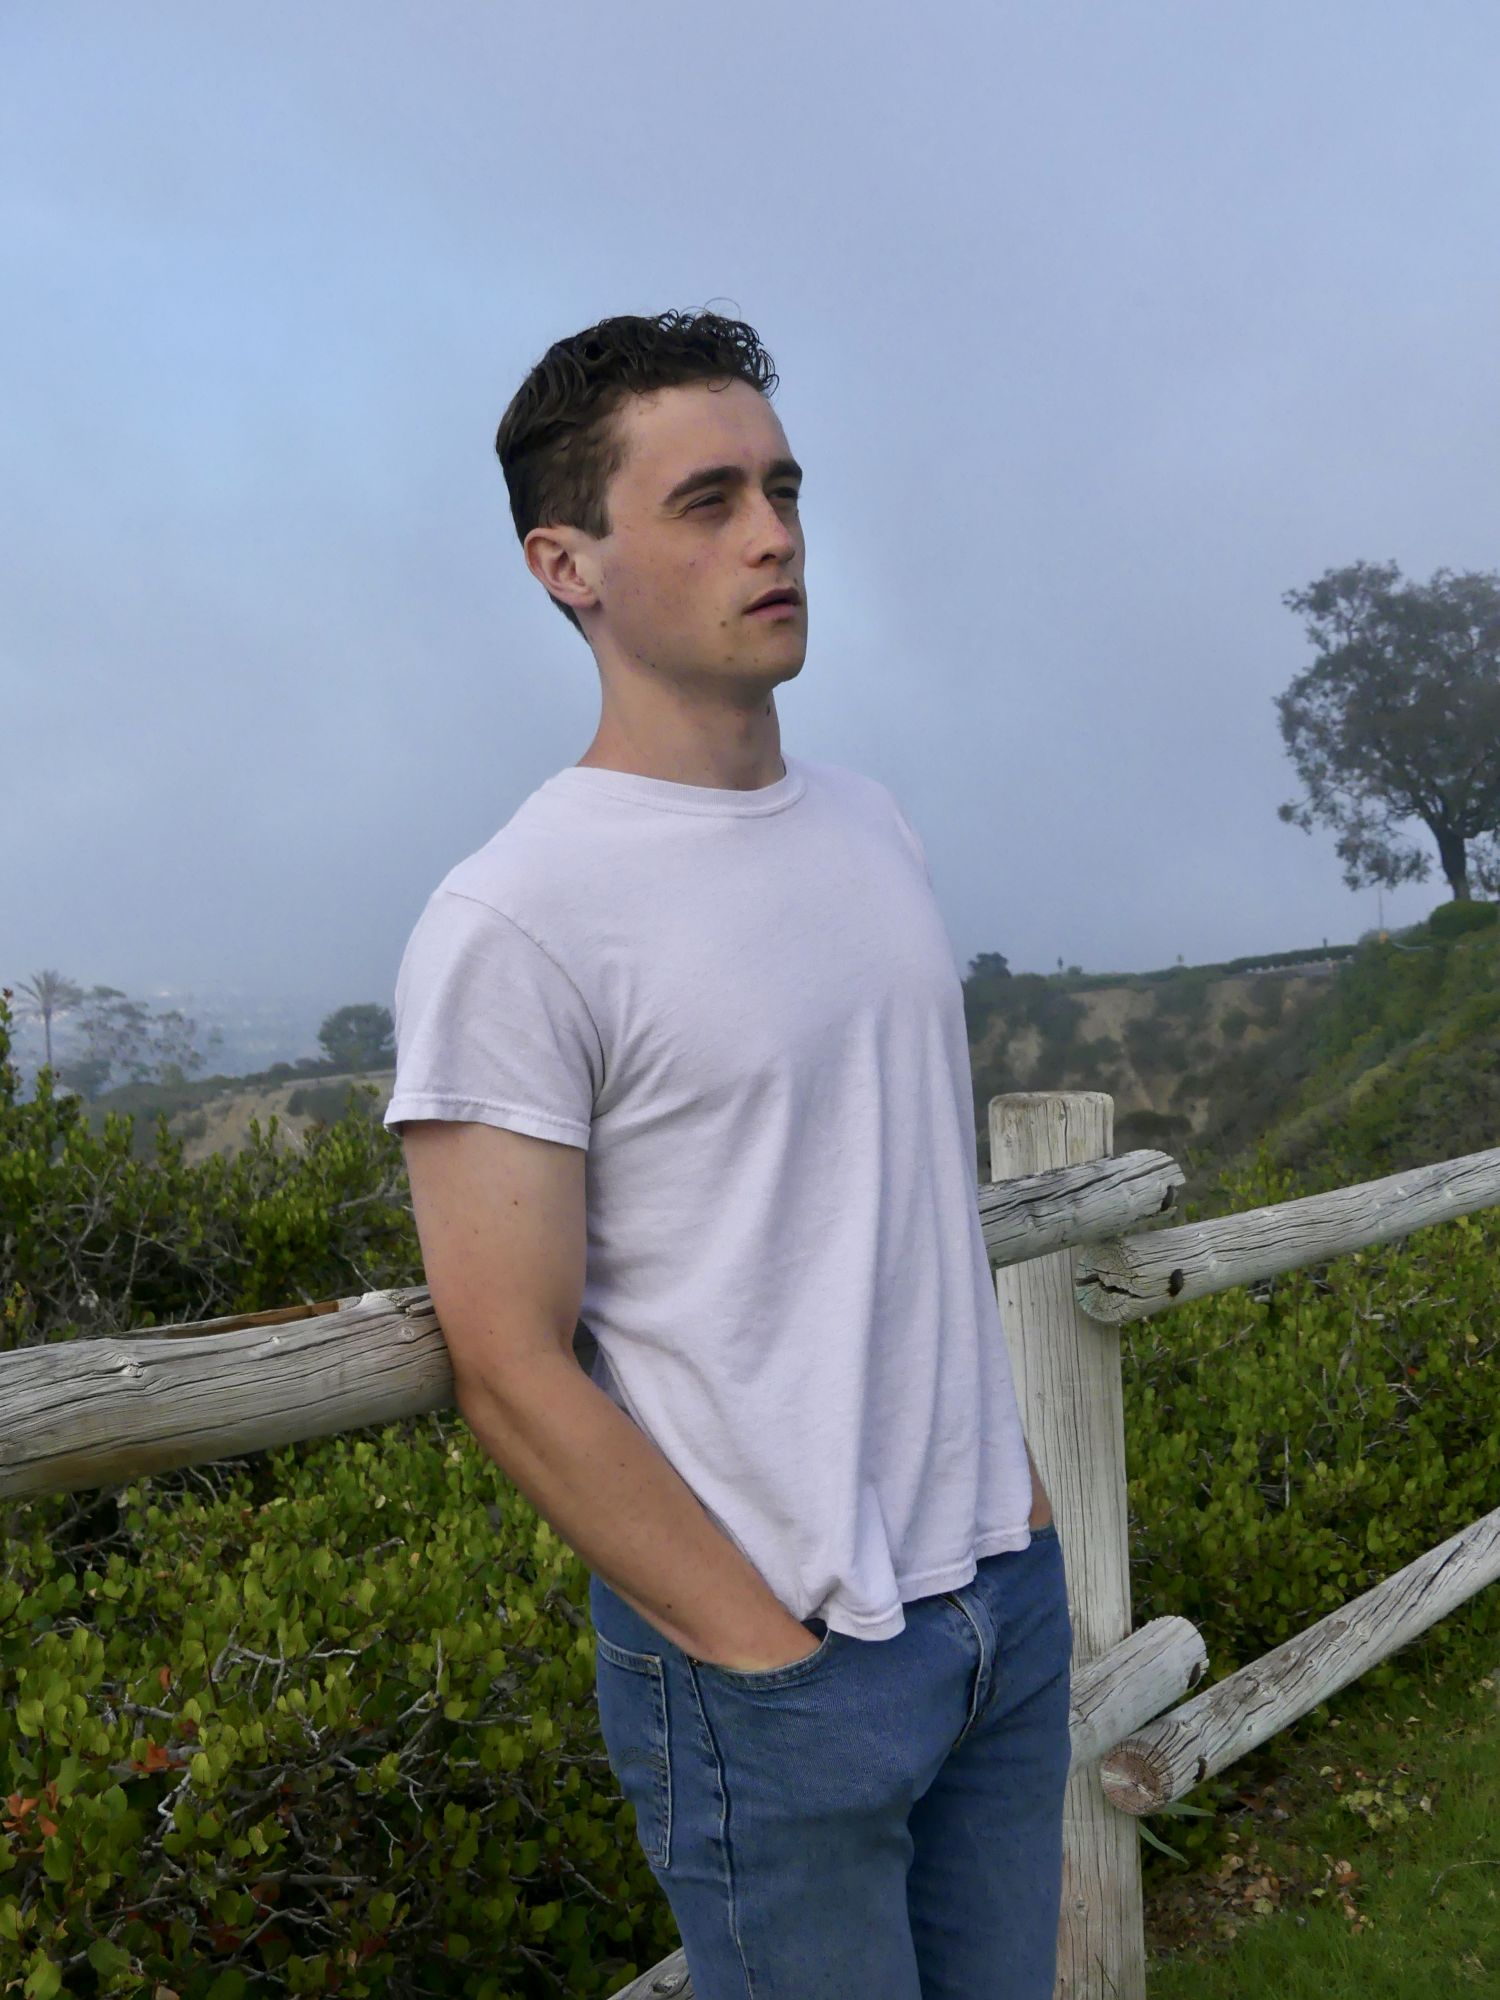
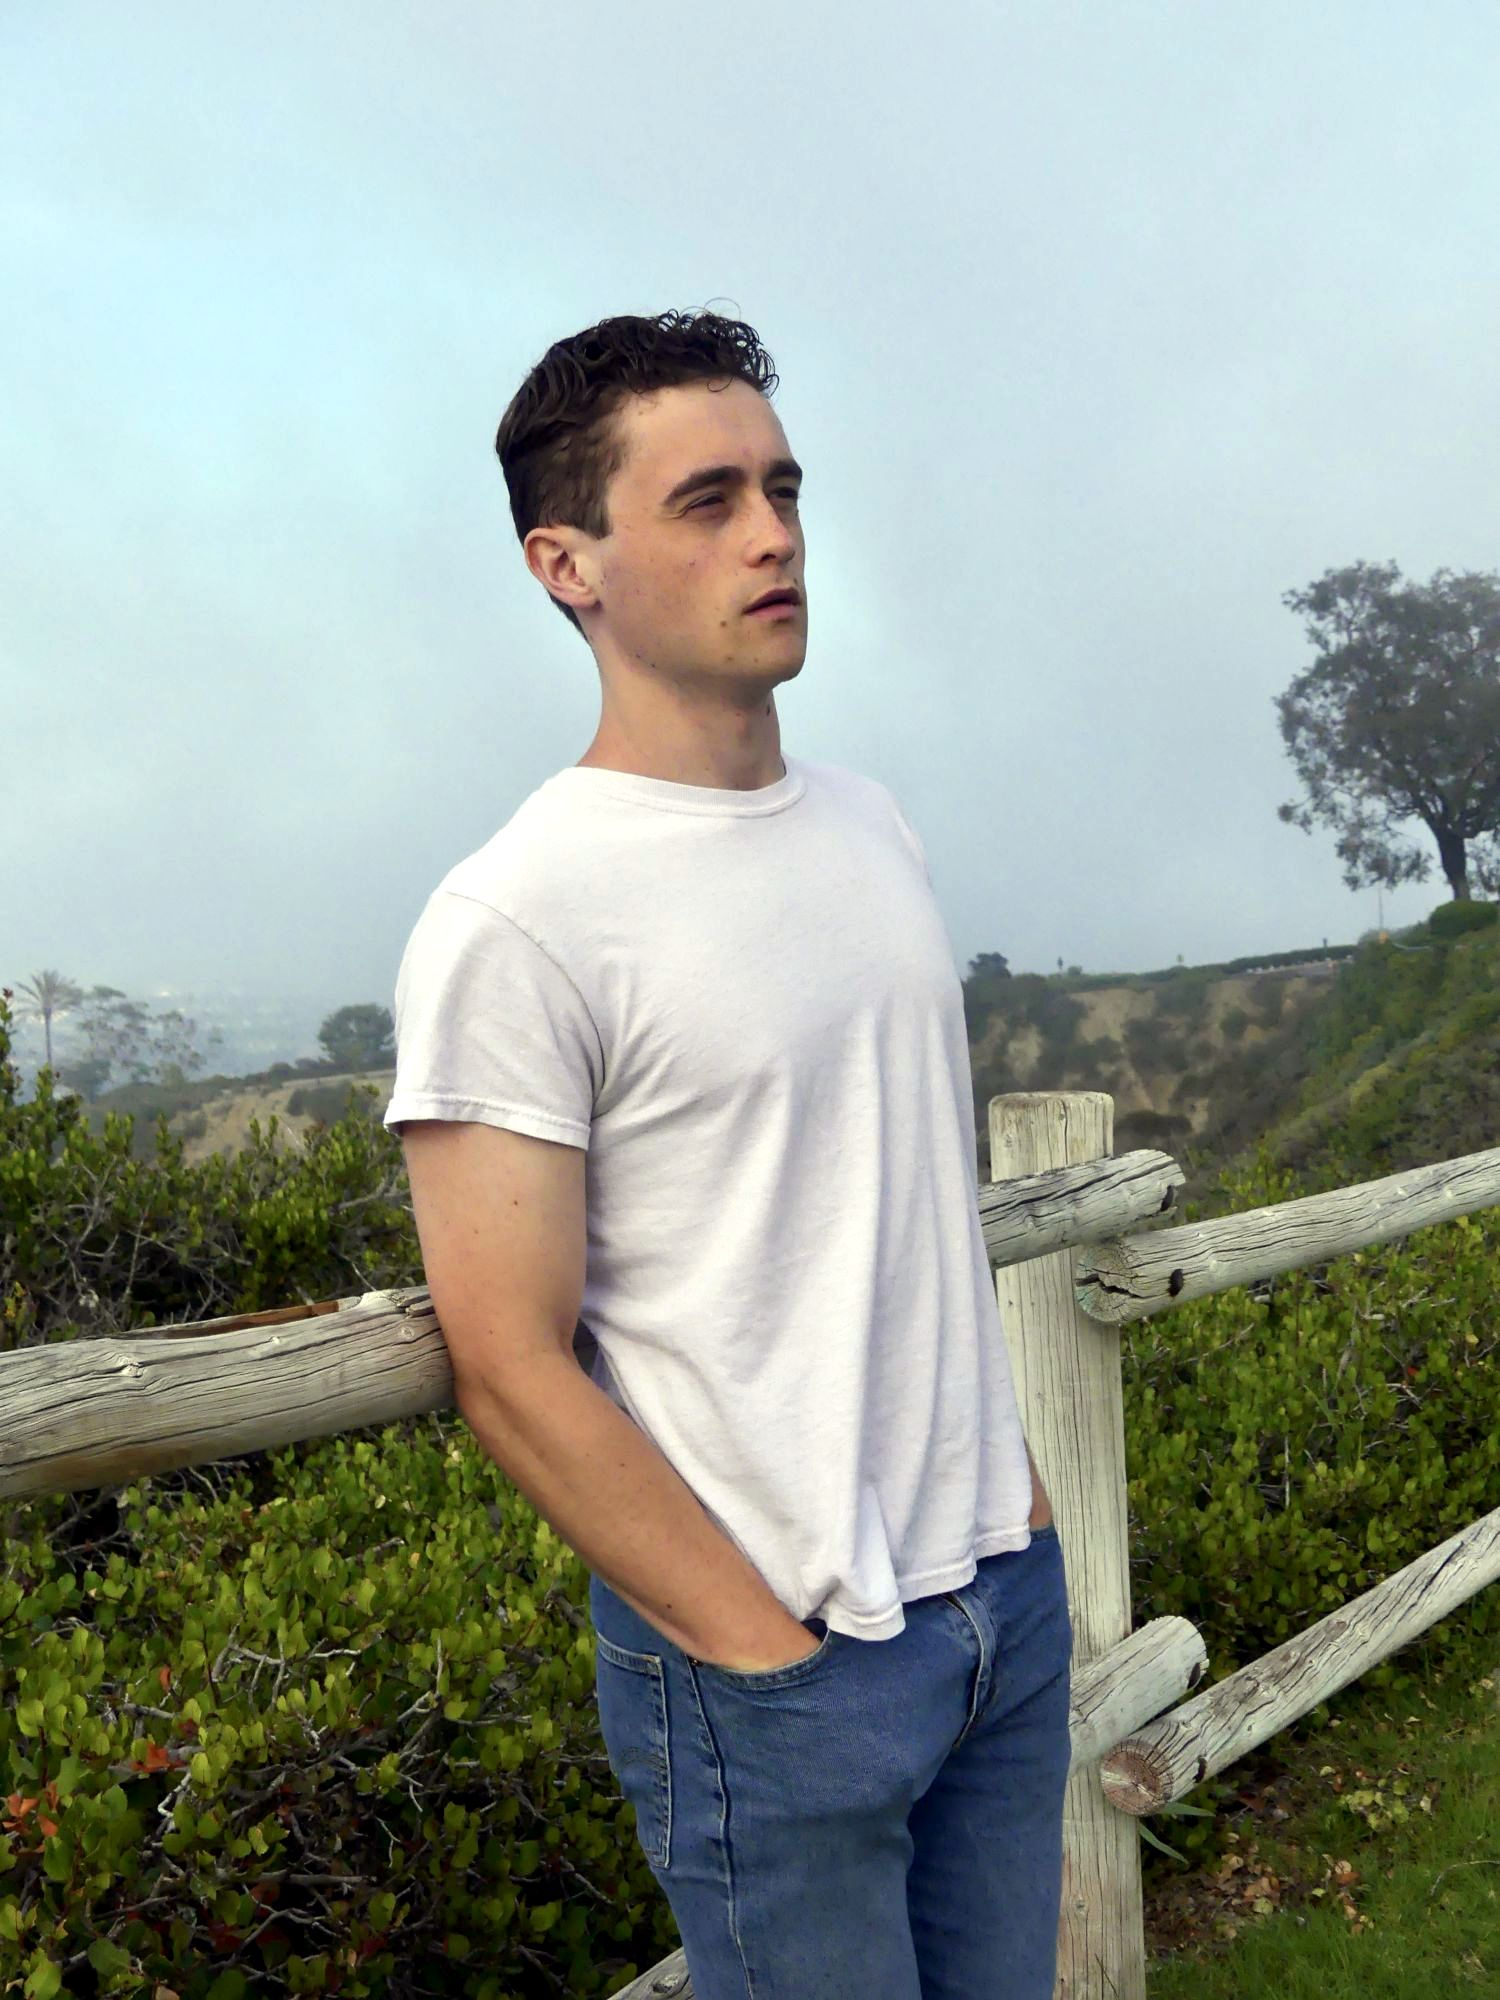
modified:   photos.html 	renamed:    public/images/backgrounds/sources/Background(002).jpeg -> public/images/backgrounds/sources/Background(003).jpeg 	modified:   public/images/photos/DaneHobrechtPhoto(001).jpeg 	new file:   public/images/photos/DaneHobrechtPhoto(002).jpeg 	modified:   public/images

diff --git a/style.css b/style.css
@@ -116,7 +116,7 @@ img { image-rendering: -webkit-optimize-contrast; }
 .section img {
 	float: left;
 	width: 100%;
-	max-width: 368px;
+	max-width: 384px;
 	margin: 0px 12px 8px 0px;
 }
 
@@ -173,7 +173,7 @@ img { image-rendering: -webkit-optimize-contrast; }
 
 .photos img {
 	width: 92vw;
-	max-width: 368px;
+	max-width: 384px;
 	padding: 0px 8px 16px 8px;
 	transition: transform 0.5s ease;
 	-webkit-transform: transform 0.5s ease;
@@ -207,7 +207,7 @@ img { image-rendering: -webkit-optimize-contrast; }
 	color: #c0c0c0;
 	font-size: 0.9em;
 	transition: color 0.2s;
-	padding: 0px 4px 0px 4px;
+	padding: 0px 2px 0px 2px;
 	-webkit-transform: color 0.2s;
 	font-family: "LiberationSans-Bold";
 }

diff --git a/photos.html b/photos.html
@@ -28,6 +28,9 @@
 			<a href="public/images/photos/sources/DaneHobrechtPhoto(001).jpeg">
 				<img src="public/images/photos/DaneHobrechtPhoto(001).jpeg" alt="Environmental photo of Dane Hobrecht taken by Ethan Ghere in 2022."/>
 			</a>
+			<a href="public/images/photos/sources/DaneHobrechtPhoto(002).jpeg">
+				<img src="public/images/photos/DaneHobrechtPhoto(002).jpeg" alt="Environmental photo of Dane Hobrecht taken by Ethan Ghere in 2022."/>
+			</a>
 		</div>
 	</body>
 </html>
